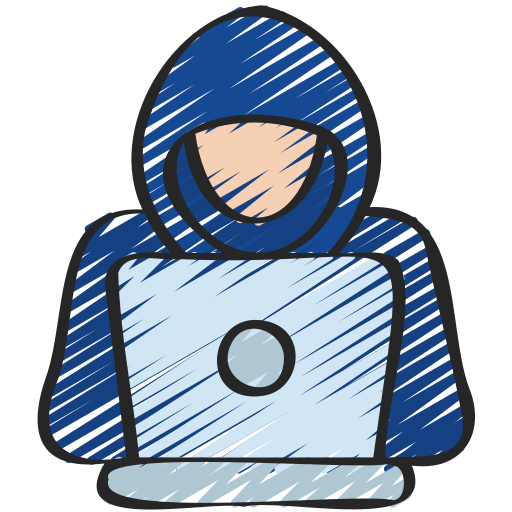
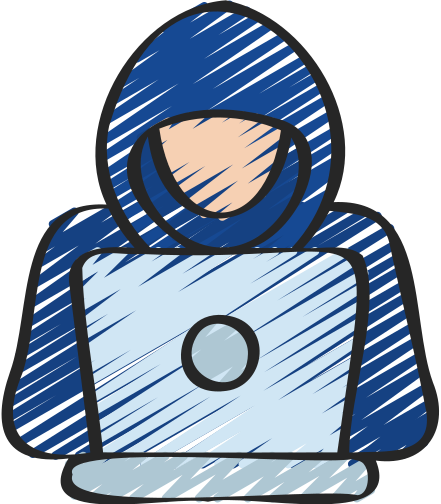
Logre modificar todo lo de js en el home y modifique la imagen paque este mas cerrada

diff --git a/html/home.php b/html/home.php
@@ -3,10 +3,54 @@ session_start();
 session_destroy();
 include "../html/barra.php"; 
 ?>
+<style>
+  .arrowDown, .arrowUp, .arrowRight, .arrowLeft {
+        position: relative;
+        display: inline-block;
+        width: 26px;
+        height: 26px;
+        border-radius: 5px;
+        background-color: rgb(65, 65, 65);
+    }
+    .arrowDown::before {
+        content: "";
+        position: absolute;
+        top: 7px;
+        left: 5px;
+        border-left: 8px solid transparent;
+        border-right: 8px solid transparent;
+        border-top: 14px solid white;
+    }
+    .arrowUp::before {
+        content: "";
+        position: absolute;
+        top: 5px;
+        left: 5px;
+        border-left: 8px solid transparent;
+        border-right: 8px solid transparent;
+        border-bottom: 14px solid white;
+    }
+    .arrowRight::before {
+        content: "";
+        position: absolute;
+        top: 5px;
+        left: 7px;
+        border-top: 8px solid transparent;
+        border-bottom: 8px solid transparent;
+        border-left: 14px solid white;
+    }
+    .arrowLeft::before {
+        content: "";
+        position: absolute;
+        top: 5px;
+        left: 5px;
+        border-top: 8px solid transparent;
+        border-bottom: 8px solid transparent;
+        border-right: 14px solid white;
+    }
+</style>
 <div class="form-group" style="height: 600px;"> 
-
 <div class="card border-secondary mb-3" style="max-width: 60rem; top:50px; margin-left: auto; margin-right: auto;" >
- 
   <div class="card-body">
   <table class="table table-hover">
   <tbody>
@@ -18,39 +62,150 @@ include "../html/barra.php";
   </tbody>
 </table>
 </div>
-<form action="">
-  <span id="texto1" onclick="">Simple etiqueta</span>
-  <input type="text" id="valorA">
-  <input type="text" id="valorB">
-  <select id="operador" onChange="">
-    <option value="suma">Suma</option>
-    <option value="resta">Resta</option>
-    <option value="multiplicacion">Multiplicacion</option>
-    <option value="division">Division</option>
-    <option value="vAleatorio">Aleatorio</option>
-    <option value="seno">seno</option>
-  </select>
-<button type="button" onClick="calcular()">Calcular</button>
-</form>
+<div>
+  <form action="">
+    <span id="texto1" onclick="">Simple etiqueta</span>
+    <input type="text" id="valorA">
+    <input type="text" id="valorB">
+    <select id="operador" onChange="">
+      <option value="+">Suma</option>
+      <option value="-">Resta</option>
+      <option value="*">Multiplicacion</option>
+      <option value="/">Division</option>
+      <option value="A">Aleatorio</option>
+      <option value="sen">seno</option>
+    </select>
+    <button type="button" onClick="calcular()">
+      Calcular
+    </button>
+  </form>
+</div>
+<div style="border-color: gray; border-width: 3px; border-style: dotted; height:600px; " id="capa2">
+  <div id="capa" style="width:510px; top:0%; position:sticky; left:0% " >
+    <img src="../img/hacker.png" alt="Hacker" id="img" width="100%" >
+  </div>
 </div>
 </div>
-
+</div>
+<div>
+<table>
+  <tr>
+    <td>
+      <button type="button" onClick="zoom()" script="">
+        Agrandar
+      </button>
+    </td>
+    <td>
+      <button type="button" onClick="alejar()" script="">
+        Alejar
+      </button>
+    </td>
+  </tr>
+  <tr>
+    <td>
+      <button type="button" onClick="mostrar()" script="">
+        Mostrar
+      </button>
+    </td>
+    <td>
+      <button type="button" onClick="ocultar()" script="">
+        Ocultar
+      </button>
+    </td>
+  </tr>
+</table>
+<table>
+  <tr>
+    <td>
+    </td>
+    <td>
+      <button class='arrowUp' onclick="moverYarriba()"></button>
+    </td>
+    <td>
+    </td>
+  </tr>
+  <tr>
+    <td>
+      <button class="arrowLeft" onclick="moverXizquierda()"></button>
+    </td>
+    <td>
+      <button class="arrowDown" onclick="moverYabajo()"></button>
+    </td>
+    <td>
+      <button class='arrowRight' onclick="moverXderecha()"></button>
+    </td>
+  </tr>
+</table>
+</div>
 <script>
-function calcular(){
-  switch (){
 
-    case '+':
-      alert(x);
-    break;
-    case '-':
-
-    break;
-    case '*':
-
-    break;
-    case '/':
-
-    break;
+  function moverYarriba() {
+    
+    if(capa.style.top!=="0%"){
+      capa.style.top = (parseInt(capa.style.top)-5)+"%";
+      console.log(capa.style.top);
+    }
   }
+  function moverYabajo() {
+    if(capa.style.top!=="100%"){
+      capa.style.top = (parseInt(capa.style.top)+5)+"%";
+      console.log(capa.style.top);
+    }
+  }
+  function moverXderecha() {
+    if(capa.style.left!=="100%"){
+      capa.style.left = (parseInt(capa.style.left)+5)+"%";
+      console.log(capa.style.left);
+    }
+  }
+  function moverXizquierda() {
+    if(capa.style.left!=="0%"){
+      capa.style.left = (parseInt(capa.style.left)-5)+"%";
+      console.log(capa.style.left);
+    }
+  }
+  function mostrar(){
+    capa.style.display="block"
+  }
+  function ocultar(){
+    capa.style.display="none"
+  }
+  function zoom(){
+    capa.style.width = (parseInt(capa.style.width)+10)+"px"
+    console.log(capa.style.width);
+  }
+  function alejar(){
+    capa.style.width = (parseInt(capa.style.width)-10)+"px"
+    console.log(capa.style.width);
+  }
+  function calcular(){
+    if (valorA.value!=='' && valorB.value!=='') {
+      valor1 = parseFloat(valorA.value);
+      valor2 = parseFloat(valorB.value);
+      switch (operador.value){
+        case '+':
+          texto1.textContent = valor1+valor2;
+        break;
+        case '-':
+          texto1.textContent = valor1-valor2;
+        break;
+        case '*':
+          texto1.textContent = valor1*valor2;
+        break;
+        case '/':
+          texto1.textContent = valor1/valor2; 
+        break;
+        case 'A':
+          texto1.textContent = Math.floor(Math.random() * (valor2 - valor1)) + valor1;
+        break;
+        case 'sen':
+          texto1.textContent = Math.sin(valor1/57.25);
+        break;
+        default:
+          texto1.textContent = "Error";
+      }
+    }else{
+      alert("No ingresaste datos");
+    }
 }
 </script>
